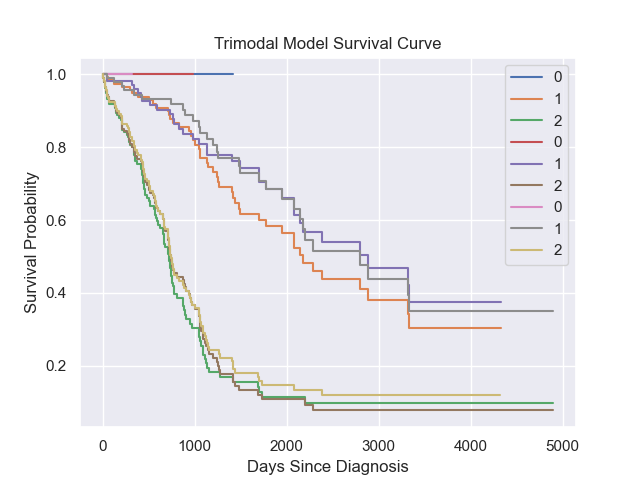
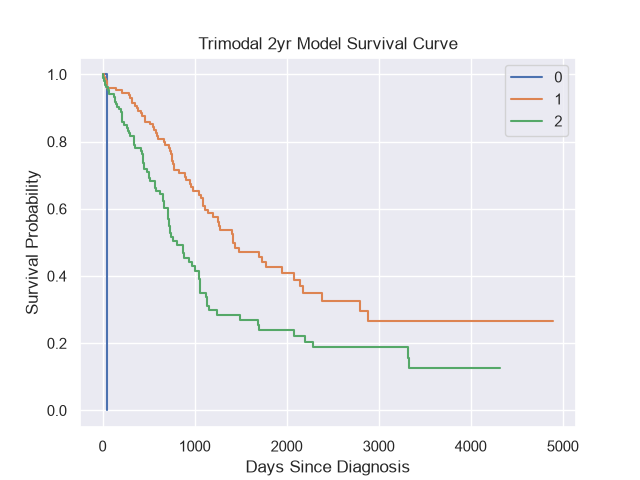
fix: run time

diff --git a/new_kf.py b/new_kf.py
@@ -2,7 +2,7 @@ import argparse
 from types import SimpleNamespace
 
 import numpy as np
-from torch.utils.data import ConcatDataset
+from torch.utils.data import Dataset, ConcatDataset
 from sklearn.model_selection import train_test_split, KFold, StratifiedKFold
 import scipy.stats as stats
 
@@ -79,6 +79,15 @@ def get_args_parser():
 
 # --------------------------------------------------------
 
+def get_stratify(args: Namespace, dataset: Dataset):
+    strat = []
+    for s in DataLoader(dataset):
+        time = s['survival_days'] > args.survival_years * DAYS_IN_YR
+        event = not s['survival_right_censor']
+        strat.append((event * 2 + time)[0,0])
+    strat = np.array(strat)
+    return strat
+
 def main(args):
     import warnings
     warnings.filterwarnings("ignore", message="Ties in `time` detected")
@@ -95,42 +104,22 @@ def main(args):
     args, mod_name = get_mod_name(args)
     args.wb_proj = f"{mod_name} {args.model} {args.wb_proj} {args.folds}"
 
-    kf = KFold(n_splits=args.folds, shuffle=True, random_state=args.seed)
+    dataset, test_set = get_datasets(args)
+    if args.mix_data: dataset = ConcatDataset([dataset, test_set]) #this is prob a little mem inefficient
+
+    strat = get_stratify(args, dataset) if args.stratify else None
 
     if args.mix_data:
-        datasets = get_datasets(args)
-        dataset = ConcatDataset(datasets) #this is prob a little mem inefficient
-
-        if args.stratify:
-            all_loader = DataLoader(dataset)
-            strat = []
-            for s in all_loader:
-                time = s['survival_days'] > args.survival_years * DAYS_IN_YR
-                event = not s['survival_right_censor']
-                strat.append((event * 2 + time)[0,0])
-            strat = np.array(strat)
-            kf = StratifiedKFold(n_splits=args.folds, shuffle=True, random_state=args.seed)
-        else: strat = None
-
-        tv, test_inds = train_test_split(
-            np.arange(len(dataset)),
-            test_size=0.15,
-            random_state=args.seed,
-            stratify=strat
-        )
-
+        tv_inds, test_inds = train_test_split(np.arange(len(dataset)), test_size=0.15, 
+                                              random_state=args.seed, stratify=strat)
     else:
-        tv_set, test_set = get_datasets(args)
-        tv = np.arange(len(tv_set))
+        tv_inds, test_inds = np.arange(len(dataset)), np.arange(len(test_set))
 
-    splits = kf.split(X=tv) if not args.stratify else kf.split(X=tv, y=strat[tv])
-
-    model_fns = {
-        "multi": get_dense_fusion_model,
-        "uni_path": get_unimodal_path,
-        "uni_rad": get_unimodal_rad,
-        "uni_clin": get_unimodal_clin
-    }
+    if args.stratify:
+        kf = StratifiedKFold(n_splits=args.folds, shuffle=True, random_state=args.seed)  
+    else:
+        kf = KFold(n_splits=args.folds, shuffle=True, random_state=args.seed)
+    splits = kf.split(X=tv_inds) if not args.stratify else kf.split(X=tv_inds, y=strat[tv_inds])
 
     metrics = defaultdict(lambda: [])
 
@@ -140,15 +129,15 @@ def main(args):
         print(f"\n{"--" * 5}")
         print(f"Split {split}")
 
-        train_inds, val_inds = tv[train_inds], tv[val_inds]
+        train_inds, val_inds = tv_inds[train_inds], tv_inds[val_inds]
         if args.mix_data:
             train_loader, valid_loader, test_loader = get_combined_loaders(args, dataset, train_inds, val_inds, test_inds)
         else:
-            train_loader, valid_loader, test_loader = get_subset_loaders(args, tv_set, train_inds, val_inds, test_set)
+            train_loader, valid_loader, test_loader = get_subset_loaders(args, dataset, train_inds, val_inds, test_set)
 
         run_name = f"Split {split}"
 
-        run = run_setup(args, model_fns[args.modality], 
+        run = run_setup(args, MODEL_FNS[args.modality], 
                         train_loader, valid_loader, test_loader, 
                         run_name = run_name, return_keys=['Test AUC', 'Test C-Index'], 
                         ret_model=True, early_stop = args.early)
@@ -173,9 +162,10 @@ def main(args):
     errs = {key: stats.sem(arr, axis=0) for key, arr in metrics.items()}
 
     if args.track_best:
-        sum = avgs["Test AUC"] + avgs["Test C-Index"]
-        best = [np.max(sum[-100:])]
-        selected = np.argmax(sum[-100:]) + len(sum) - 100
+        sum = avgs["Test AUC"] / .8 + avgs["Test C-Index"] / .7
+        last = - args.epochs // 3
+        best = [np.max(sum[last:])]
+        selected = np.argmax(sum[last:]) + len(sum) + last
     else: 
         best = []
         selected = -1
@@ -183,8 +173,7 @@ def main(args):
     print(f"\n{mod_name}{', mix data' if args.mix_data else ', inst. sep.'} - {args.survival_years}yr")
     print(f"{"--" * 5}")
     print(f"5-Fold Avg + 95% CI")
-    # for selected in [654, 816, 398]:
-    # selected = -1
+
     auc_ci = stats.t.interval(confidence=.95, df=4, loc=avgs['Test AUC'][selected], scale=errs['Test AUC'][selected])
     auc_ci = [float(n) for n in auc_ci]
     c_ci = stats.t.interval(confidence=.95, df=4, loc=avgs['Test C-Index'][selected], scale=errs['Test C-Index'][selected])

diff --git a/optuna_tune.py b/optuna_tune.py
@@ -5,21 +5,22 @@ import new_kf
 
 def run_trial(trial: optuna.Trial):
     #optimize on lr, batch size, emb dim, fused dim, early stop, num epochs, survival years, activation
-    batch_size = trial.suggest_categorical("batch_size", [32, 64, 128])
+    # batch_size = trial.suggest_categorical("batch_size", [32, 64, 128])
     emb_dim = trial.suggest_categorical("emb_dim", [64, 128, 256])
     fused_dim = trial.suggest_categorical("fused_dim", [0, 64, 128])
 
     # early_stop = trial.suggest_int("early_stop", low=-100, high=0)
-    epochs = trial.suggest_categorical("epochs", [200, 500])
+    epochs = trial.suggest_categorical("epochs", [200, 300, 500, 800])
     warmup = trial.suggest_categorical("warmup", [25, 50, 100])
-
-    act = trial.suggest_categorical("act", ["--rms_norm", "--layer_norm", "--batch_norm"])
+    lr = trial.suggest_categorical("lr", [1e-5, 1e-4, 2e-4, 1e-3])
 
     yrs = trial.suggest_categorical("years", [2, 5])
 
+    strat = trial.suggest_categorical("stratify", ["", "--stratify"])
+
     #build args, run main
-    args = f'--survival_years {yrs} {act} --emb_dim {emb_dim} --epochs {epochs} --warmup_epochs {warmup} --batch_size {batch_size} --fusion_dim {fused_dim}'.split() + \
-            '--disable_wandb --mix_data --clinical --path_lang --rad_lang --sparse --stratify --track_best'.split()
+    args = f'--survival_years {yrs} {strat} --emb_dim {emb_dim} --epochs {epochs} --warmup_epochs {warmup} --lr {lr} --fusion_dim {fused_dim}'.split() + \
+            '--disable_wandb --mix_data --layer_norm --batch_size 32 --clinical --path_lang --rad_lang --sparse --track_best'.split()
 
     parser = new_kf.get_args_parser()
     main_fn = new_kf.main

diff --git a/run/train.py b/run/train.py
@@ -44,7 +44,6 @@ def train_one_epoch(model: torch.nn.Module, device: torch.device, train_loader: 
 
         with torch.inference_mode():
             metrics["Train Loss"].update(loss.detach().item())
-            # metrics["lr"].update(optimizer.param_groups[0]["lr"])
             for name, fn in fns.items():
                 metric_val = fn(preds, batch["label"])
                 metrics[name].update(metric_val.detach().item())
@@ -71,7 +70,6 @@ def train_one_epoch_list(model: torch.nn.Module, device: torch.device, train_loa
 
         with torch.inference_mode():
             metrics["Train Loss"].update(loss.detach().item())
-            metrics["lr"].update(optimizer.param_groups[0]["lr"])
             for name, fn in fns.items():
                 metric_val = fn(preds, batch["label"])
                 metrics[name].update(metric_val.detach().item())

diff --git a/model/dense_fusion.py b/model/dense_fusion.py
@@ -48,12 +48,13 @@ class DenseFusion(nn.Module):
                 logits[modality] = enc(x[modality]).float()
             if f"{modality}_mask" in x: 
                 logits[modality] *= x[f"{modality}_mask"].view((-1, 1))
-        
-        catted = torch.cat([logits[mod] for mod in self.modality_order], dim=1)
+        catted = [logits[mod] for mod in self.modality_order]    
+        catted = torch.cat(catted, dim=1)
         return self.pred.predict(catted)
     
     def forward(self, x: Dict[str, Tensor]) -> Dict[str, Tensor]:
         preds = self.predict(x)
+
         loss = [self.loss_fn(preds, x)] if self.loss_fn is not None else []
         return preds, *loss
 

diff --git a/data/mmap_data.py b/data/mmap_data.py
@@ -123,7 +123,8 @@ class MemmapDatasetMultimodal(Dataset):
 
         #filter labels
         if self._labels is not None: all_valid *= (~np.isnan(self._labels))
-        all_valid *= (index["survival_days"] > 0)[:, None]
+        all_valid *= (~np.isnan(index["survival_days"])[:,None] * (index["survival_days"] > 0)[:, None])
+        all_valid *= ~np.isnan(index["survival_right_censor"])[:,None]
         all_valid *= ~index['excluded'][:,None]
 
         self._all_valid = np.flatnonzero(all_valid)

diff --git a/final_models.py b/final_models.py
@@ -86,6 +86,15 @@ def get_unimodal_clin(args):
 
 # --------------------------------------------------------
 
+MODEL_FNS = {
+    "multi": get_dense_fusion_model,
+    "uni_path": get_unimodal_path,
+    "uni_rad": get_unimodal_rad,
+    "uni_clin": get_unimodal_clin
+}
+
+# --------------------------------------------------------
+
 def get_mod_name(args):
     if args.modality == "uni_path": 
         args.path_lang = True
